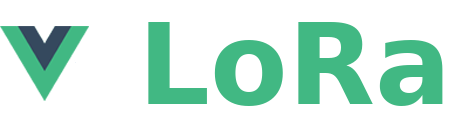
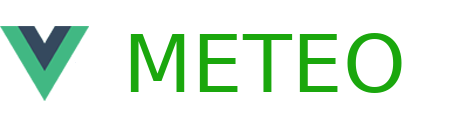
Fixed for mobile phone.

Changed region(s): [[0.2675, 0.1481, 0.9512, 0.8]]

diff --git a/src/components/SidebarPlugin/SideBar.vue b/src/components/SidebarPlugin/SideBar.vue
@@ -5,60 +5,12 @@
             <!--Toggler-->
             <navbar-toggle-button @click.native="showSidebar">
                 <span class="navbar-toggler-icon"></span>
+
             </navbar-toggle-button>
             <router-link class="navbar-brand" to="/">
                 <img :src="logo" class="navbar-brand-img" alt="...">
             </router-link>
 
-            <slot name="mobile-right">
-                <ul class="nav align-items-center d-md-none">
-                    <base-dropdown class="nav-item" position="right">
-                        <a slot="title" class="nav-link nav-link-icon" href="#" role="button" data-toggle="dropdown"
-                           aria-haspopup="true" aria-expanded="false">
-                            <i class="ni ni-bell-55"></i>
-                        </a>
-
-                        <a class="dropdown-item" href="#">Action</a>
-                        <a class="dropdown-item" href="#">Another action</a>
-                        <div class="dropdown-divider"></div>
-                        <a class="dropdown-item" href="#">Something else here</a>
-                    </base-dropdown>
-                    <base-dropdown class="nav-item" position="right">
-                        <a slot="title" class="nav-link" href="#" role="button">
-                            <div class="media align-items-center">
-                              <span class="avatar avatar-sm rounded-circle">
-                                <img alt="Image placeholder" src="img/theme/team-1-800x800.jpg">
-                              </span>
-                            </div>
-                        </a>
-
-                        <div class=" dropdown-header noti-title">
-                            <h6 class="text-overflow m-0">Welcome!</h6>
-                        </div>
-                        <router-link to="/profile" class="dropdown-item">
-                            <i class="ni ni-single-02"></i>
-                            <span>My profile</span>
-                        </router-link>
-                        <router-link to="/profile" class="dropdown-item">
-                            <i class="ni ni-settings-gear-65"></i>
-                            <span>Settings</span>
-                        </router-link>
-                        <router-link to="/profile" class="dropdown-item">
-                            <i class="ni ni-calendar-grid-58"></i>
-                            <span>Activity</span>
-                        </router-link>
-                        <router-link to="/profile" class="dropdown-item">
-                            <i class="ni ni-support-16"></i>
-                            <span>Support</span>
-                        </router-link>
-                        <div class="dropdown-divider"></div>
-                        <a href="#!" class="dropdown-item">
-                            <i class="ni ni-user-run"></i>
-                            <span>Logout</span>
-                        </a>
-                    </base-dropdown>
-                </ul>
-            </slot>
             <slot></slot>
             <div v-show="$sidebar.showSidebar" class="navbar-collapse collapse show" id="sidenav-collapse-main">
 
@@ -67,6 +19,11 @@
                         <div class="col-6 collapse-brand">
                             <router-link to="/">
                                 <img :src="logo">
+                              <ul>
+                                <li v-for="(item, index) in sensors" @click="setSenzor(index)" :key="index">
+                                  {{item}}
+                                </li>
+                              </ul>
                             </router-link>
                         </div>
                         <div class="col-6 collapse-close">
@@ -92,6 +49,11 @@
     components: {
       NavbarToggleButton
     },
+    data () {
+      return {
+        sensors: ["01", "02", "03", "04", "05", "06", "07", "08", "09", "10"]
+      }
+    },
     props: {
       logo: {
         type: String,
@@ -110,6 +72,9 @@
       };
     },
     methods: {
+      setSenzor(id) {
+        this.$root.$emit("switchToSensor", id);
+      },
       closeSidebar() {
         this.$sidebar.displaySidebar(false)
       },

diff --git a/src/views/Dashboard.vue b/src/views/Dashboard.vue
@@ -1,15 +1,15 @@
 <template>
   <div>
-    <div>
-      <base-header type="gradient-success" class="pb-2 pb-2 pt-5 pt-md-8">
-      </base-header>
-    </div>
-    <div class="container-fluid">
+<!--    <div>-->
+<!--      <base-header type="gradient-success" class="pb-20 pt-5 pt-md-5">-->
+<!--      </base-header>-->
+<!--    </div>-->
+    <div class="container-fluid mt-100">
       <!--Tables-->
       <div class="row">
         <div class="col-xl-12 mb-5 mb-xl-0">
           <!--Charts-->
-          <div class="container-fluid mt--7">
+          <div class="container-fluid mt-2">
             <div class="row">
               <div class="col-xl-12 mb-12 mb-xl-0">
                 <card type="default" header-classes="bg-transparent">
@@ -25,10 +25,10 @@
                       :key="sliderkey"
                   />
                   <div>
-                    <b-button @click="setMonth(2)">Únor</b-button>
-                    <b-button @click="setMonth(3)">Březen</b-button>
-                    <b-button @click="setMonth(4)">Duben</b-button>
-                    <b-button @click="setMonth(5)">Květen</b-button>
+                    <b-button size="sm" @click="setMonth(2)">Únor</b-button>
+                    <b-button size="sm" @click="setMonth(3)">Březen</b-button>
+                    <b-button size="sm" @click="setMonth(4)">Duben</b-button>
+                    <b-button size="sm" @click="setMonth(5)">Květen</b-button>
                   </div>
                 </card>
               </div>
@@ -75,20 +75,13 @@
   import axios from "axios";
   import * as chartConfigs from '@/components/Charts/config';
   import LineChart from '@/components/Charts/LineChart';
-  import BarChart from '@/components/Charts/BarChart';
 
   // Tables
-  import SocialTrafficTable from './Dashboard/SocialTrafficTable';
-  import PageVisitsTable from './Dashboard/PageVisitsTable';
-  import Map from './Map.vue';
+  // import Map from './Map.vue';
 
   export default {
     components: {
-      LineChart,
-      BarChart,
-      PageVisitsTable,
-      SocialTrafficTable,
-      Map,
+      LineChart
     },
     data() {
       return {
@@ -200,7 +193,7 @@
     },
     methods: {
       timeLevelStatus(index) {
-        console.log('AAAA', index, this.currentTimeLevel);
+        // console.log('AAAA', index, this.currentTimeLevel);
         return this.currentTimeLevelIndex === index ? 'success' : 'secondary';
       },
       statTypeStatus(type) {
@@ -208,7 +201,7 @@
         return this.statType === type ? 'success' : 'secondary';
       },
       switchToTimeLevel(index) {
-        console.log(index);
+        // console.log(index);
         this.currentTimeLevelIndex = index;
         this.currentTimeLevel = this.timelevels[index];
         this.sliderkey = this.sliderkey + 1;
@@ -315,13 +308,13 @@
             default:
               datetocheck = this.currentYear + "-" + this.currentMonth + "-" + Math.round(this.dateSlider);
           }
-          console.log(datetocheck);
+          // console.log(datetocheck);
           this.getSensors(this.currentDate);
         }
       },
       getSensors(date) {
         var current_component = this;
-        console.log(date);
+        // console.log(date);
         let year = date.split('-')[0];
         let month = parseInt(date.split('-')[1]);
         let day = parseInt(date.split('-')[2]);
@@ -380,7 +373,8 @@
         .catch(function (error) {
           // console.log(error);
           // current_component.error = error;
-          current_component.error = "Pro vybraný den nemám data.";
+          // let a = error;
+          current_component.error = "Pro vybraný den nemám data: " + error;
           current_component.activeSensor.measured = [];
           current_component.activeSensor.times = [];
           current_component.initMeasuredChart();

diff --git a/public/index.html b/public/index.html
@@ -22,9 +22,8 @@
     <meta http-equiv="X-UA-Compatible" content="IE=edge">
     <meta name="viewport" content="width=device-width,initial-scale=1.0">
     <link rel="icon" href="<%= BASE_URL %>img/brand/favicon.png" type="image/png">
-    <title>Vue Argon Dashboard - Free Dashboard for Vue.js & Bootstrap 4</title>
+    <title>Dolní Lhota - Meteo - LoRa</title>
     <link rel="stylesheet" href="https://use.fontawesome.com/releases/v5.8.1/css/all.css" integrity="sha384-50oBUHEmvpQ+1lW4y57PTFmhCaXp0ML5d60M1M7uH2+nqUivzIebhndOJK28anvf" crossorigin="anonymous">
-    <script src="https://maps.googleapis.com/maps/api/js?key=YOUR_API_KEY"></script>
   </head>
   <body>
     <noscript>

diff --git a/src/layout/DashboardNavbar.vue b/src/layout/DashboardNavbar.vue
@@ -3,15 +3,6 @@
               id="navbar-main"
               :show-toggle-button="false"
               expand>
-        <form class="navbar-search navbar-search-dark form-inline mr-3 d-none d-md-flex ml-lg-auto">
-            <div class="form-group mb-0">
-                <base-input placeholder="Search"
-                            class="input-group-alternative"
-                            alternative=""
-                            addon-right-icon="fas fa-search">
-                </base-input>
-            </div>
-        </form>
     </base-nav>
 </template>
 <script>

diff --git a/src/layout/DashboardLayout.vue b/src/layout/DashboardLayout.vue
@@ -6,7 +6,7 @@
       title="LoRa"
     >
 
-      <Sensors/>
+      <Sensors class="d-none d-md-none d-lg-flex"/>
 
 <!--      <template slot="links">-->
 <!--        <sidebar-item-->
@@ -41,14 +41,12 @@
   </div>
 </template>
 <script>
-  import DashboardNavbar from './DashboardNavbar.vue';
   import ContentFooter from './ContentFooter.vue';
   import { FadeTransition } from 'vue2-transitions';
   import Sensors from './Sensors.vue';
 
   export default {
     components: {
-      DashboardNavbar,
       ContentFooter,
       FadeTransition,
       Sensors

diff --git a/src/main.js b/src/main.js
@@ -44,8 +44,8 @@ const store = new Vuex.Store({
     count: 0,
     statType: 'avg',
     activeSensor: null,
-    // serviceUrl: "http://lora.vsb.cz/loraloc/meteo/",
-    serviceUrl: "http://localhost:8080/meteo/",
+    serviceUrl: "http://lora.vsb.cz/loraloc/meteo/",
+    // serviceUrl: "http://localhost:8080/meteo/",
     mapmove: true
   },
   mutations: {

diff --git a/src/layout/Sensors.vue b/src/layout/Sensors.vue
@@ -1,11 +1,11 @@
 <template>
     <div>
-        <div><p>Senzory</p></div>
         <div>
+          <p>Senzory</p>
         <vue-tree-list
           @click="onClick"
           :model="data"
-          v-bind:default-expanded="true">
+          v-bind:default-expanded="false">
         </vue-tree-list>
         </div>
     </div>

diff --git a/src/components/Charts/config.js b/src/components/Charts/config.js
@@ -112,7 +112,7 @@ function chartOptions(Chart) {
       drawBorder: false,
       drawTicks: false,
       lineWidth: 0,
-      zeroLineWidth: 0,
+      zeroLineWidth: 1,
       zeroLineColor: (mode == 'dark') ? colors.gray[900] : colors.gray[300],
       zeroLineBorderDash: [2],
       zeroLineBorderDashOffset: [2]

diff --git a/src/App.vue b/src/App.vue
@@ -1,6 +1,5 @@
 <template>
   <div id="app">
-    <notifications></notifications>
     <router-view/>
   </div>
 </template>
